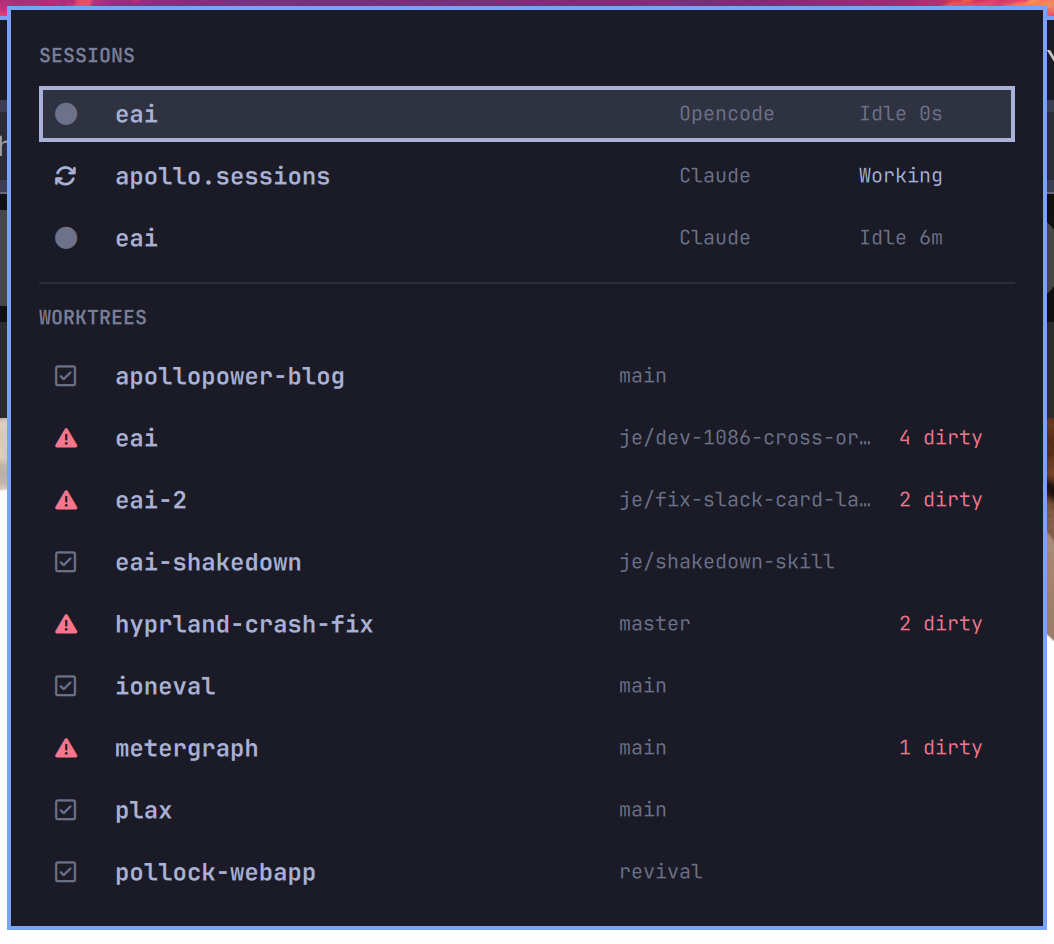
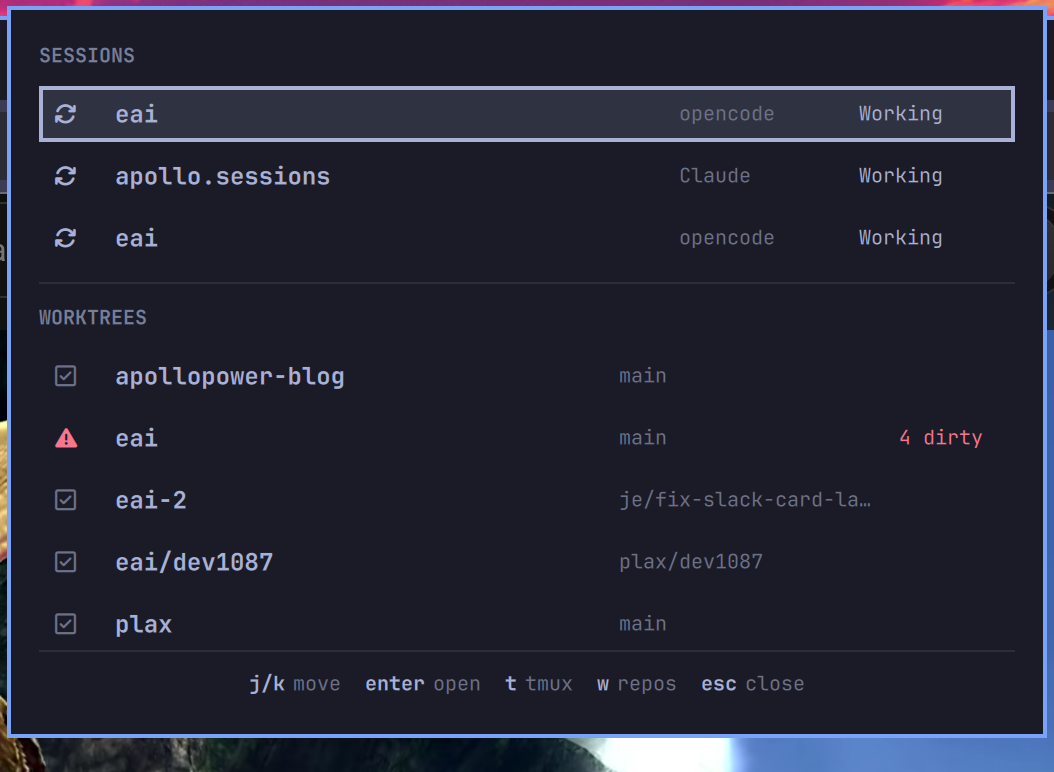
List real worktrees, add a w toggle and a key legend
The WORKTREES section was a claim the code did not keep. It globbed
$root/*/ and kept anything containing a .git, which means it listed
repositories one level down rather than worktrees: a worktree parked inside its
own repo was invisible, and a plain clone was listed as a "worktree" it never
was. On this machine that hid .plax/worktrees/dev1087 -- a live plax worktree,
one commit ahead of main, with no upstream, so its only copy was on disk and
the panel never mentioned it.

Worktrees now come from `git worktree list --porcelain` on every repository
found under worktreeRoots, unioned and deduped by resolved path. That also
fixes the inverse, since a plain clone reports itself as its own single
worktree and so appears exactly once. Prunable entries are skipped and detached
heads are labelled rather than left blank. Each record carries `parent` and
`main`, so the list groups under the repository a worktree belongs to instead
of sorting by name -- eai-2 and eai/dev1087 both belong to eai and only sat
next to it alphabetically by luck. Cost is one extra local git call per repo,
median poll 298ms -> 335ms, partly offset by dropping the separate rev-parse
for the branch.

`w` collapses the list to one row per repository and back. The filtering lives
in the panel rather than the poll script so it is instant, and assigning
showLinked breaks its binding to the setting, so the ten-second refresh cannot
silently undo the choice. The section header switches between WORKTREES and
[…]

diff --git a/Panel.qml b/Panel.qml
@@ -16,6 +16,27 @@ Panel {
   property var sessionsData: []
   property var worktreesData: []
 
+  // `w` collapses the worktree list to one row per repository and expands it
+  // again. Filtering here rather than in the poll script keeps it instant --
+  // no re-poll, no wait for the next tick. The setting only decides where the
+  // panel starts; assigning showLinked breaks the binding, so a later data
+  // refresh cannot silently undo the user's choice.
+  property bool linkedDefault: true
+  property bool showLinked: linkedDefault
+  readonly property var worktreeRows: {
+    if (showLinked) return worktreesData
+    var rows = []
+    for (var i = 0; i < worktreesData.length; i++)
+      if (worktreesData[i] && worktreesData[i].main === true) rows.push(worktreesData[i])
+    return rows
+  }
+
+  function toggleLinkedWorktrees() {
+    showLinked = !showLinked
+    clampSelected()
+    ensureVisible()
+  }
+
   readonly property color foreground: bar ? bar.foreground : Color.foreground
   readonly property color dim: Qt.darker(foreground, 1.55)
   readonly property color urgent: bar ? bar.urgent : Color.urgent
@@ -31,10 +52,23 @@ Panel {
   readonly property string terminal: String(setting("terminal", ""))
   readonly property color selectFill: Qt.rgba(accentColor.r, accentColor.g, accentColor.b, 0.15)
 
+  // Pinned key legend. The panel is keyboard-driven and `w` in particular has
+  // no other affordance, so the keys have to be stated somewhere. It sits
+  // outside the Flickable: a legend that scrolls away with a long worktree
+  // list would be worse than none.
+  readonly property var legendKeys: [
+    { key: "j/k", label: "move" },
+    { key: "enter", label: "open" },
+    { key: "t", label: "tmux" },
+    { key: "w", label: root.showLinked ? "repos" : "worktrees" },
+    { key: "esc", label: "close" }
+  ]
+  readonly property real legendHeight: Style.font.caption + Style.space(18)
+
   readonly property real panelWidth: Style.space(520)
   readonly property real rowHeight: Style.font.body + Style.space(16)
   readonly property real headerHeight: Style.space(28)
-  readonly property int totalItems: sessionsData.length + worktreesData.length
+  readonly property int totalItems: sessionsData.length + worktreeRows.length
   readonly property int sessionCount: sessionsData.length
 
   readonly property real computedContentHeight: {
@@ -45,11 +79,12 @@ Panel {
     } else {
       h += Style.space(36)
     }
-    if (worktreesData.length > 0) {
+    if (worktreeRows.length > 0) {
       h += Style.space(16)
       h += headerHeight + Style.space(8)
-      h += worktreesData.length * rowHeight + (worktreesData.length - 1) * Style.space(3)
+      h += worktreeRows.length * rowHeight + (worktreeRows.length - 1) * Style.space(3)
     }
+    h += legendHeight
     return h
   }
 
@@ -119,7 +154,7 @@ Panel {
     if (selectedIndex < sessionCount)
       focusSession(sessionsData[selectedIndex])
     else
-      openWorktree(worktreesData[selectedIndex - sessionCount])
+      openWorktree(worktreeRows[selectedIndex - sessionCount])
   }
 
   function open() {
@@ -213,7 +248,7 @@ Panel {
     if (selectedIndex < sessionCount)
       focusSession(sessionsData[selectedIndex])
     else
-      openWorktreeInTmux(worktreesData[selectedIndex - sessionCount])
+      openWorktreeInTmux(worktreeRows[selectedIndex - sessionCount])
   }
 
   function isSessionSelected(index) { return index === selectedIndex && index < sessionCount }
@@ -230,6 +265,16 @@ Panel {
   // stopped on a question it asked -- actually needs the user now, so it is the
   // only one that reads as urgent. "Idle" deliberately claims nothing about
   // whether the agent finished or is waiting: the signal cannot tell them apart.
+  // Capitalising the first letter turned "opencode" into "Opencode", which is
+  // not what the project calls itself. Names are spelled the way their owners
+  // spell them.
+  function agentLabel(agent) {
+    var name = String(agent || "")
+    if (name === "claude") return "Claude"
+    if (name === "opencode") return "opencode"
+    return name
+  }
+
   function stateIcon(state) {
     if (state === "blocked") return "\uf059"   // question mark: awaiting your answer
     if (state === "stuck")   return "\uf071"   // warning: loop died mid-flight
@@ -291,11 +336,15 @@ Panel {
       onActivateRequested: root.activateSelected()
       onTextKey: function(t) {
         if (t === "t") root.activateSelectedInTmux()
+        else if (t === "w") root.toggleLinkedWorktrees()
       }
 
       Flickable {
         id: panelFlick
-        anchors.fill: parent
+        anchors.left: parent.left
+        anchors.right: parent.right
+        anchors.top: parent.top
+        anchors.bottom: legend.top
         contentWidth: width
         contentHeight: Math.max(panelFlick.height, root.computedContentHeight)
         clip: true
@@ -379,7 +428,7 @@ Panel {
 
                   Text {
                     anchors.verticalCenter: parent.verticalCenter
-                    text: String(session.agent || "").charAt(0).toUpperCase() + String(session.agent || "").slice(1)
+                    text: root.agentLabel(session.agent)
                     color: root.dim
                     font.family: root.fontFamily
                     font.pixelSize: Style.font.caption
@@ -423,25 +472,26 @@ Panel {
           }
 
           PanelSeparator {
-            visible: root.worktreesData.length > 0
+            visible: root.worktreeRows.length > 0
             foreground: root.foreground
           }
 
           PanelSectionHeader {
-            text: "WORKTREES"
+            // Says which mode the list is in, since `w` is the only way to tell.
+            text: root.showLinked ? "WORKTREES" : "REPOSITORIES"
             foreground: root.foreground
             fontFamily: root.fontFamily
-            visible: root.worktreesData.length > 0
+            visible: root.worktreeRows.length > 0
           }
 
           Column {
             id: worktreesSection
-            visible: root.worktreesData.length > 0
+            visible: root.worktreeRows.length > 0
             width: parent.width
             spacing: Style.space(3)
 
             Repeater {
-              model: root.worktreesData
+              model: root.worktreeRows
 
               Item {
                 id: worktreeEntry
@@ -536,6 +586,50 @@ Panel {
                   }
                   onEntered: root.selectedIndex = index + root.sessionCount
                 }
+              }
+            }
+          }
+        }
+      }
+
+      Item {
+        id: legend
+        anchors.left: parent.left
+        anchors.right: parent.right
+        anchors.bottom: parent.bottom
+        height: root.legendHeight
+
+        PanelSeparator {
+          anchors.top: parent.top
+          width: parent.width
+          foreground: root.foreground
+        }
+
+        Row {
+          anchors.centerIn: parent
+          anchors.verticalCenterOffset: Style.space(3)
+          spacing: Style.space(12)
+
+          Repeater {
+            model: root.legendKeys
+
+            Row {
+              required property var modelData
+              spacing: Style.space(4)
+
+              Text {
+                text: modelData.key
+                color: root.foreground
+                font.family: root.fontFamily
+                font.pixelSize: Style.font.caption
+                font.bold: true
+              }
+
+              Text {
+                text: modelData.label
+                color: root.dim
+                font.family: root.fontFamily
+                font.pixelSize: Style.font.caption
               }
             }
           }

diff --git a/BarWidget.qml b/BarWidget.qml
@@ -11,6 +11,8 @@ BarWidget {
   property int refreshIntervalSec: Math.max(5, Number(setting("refreshIntervalSec", 10)))
   property int stuckAfterSec: Math.max(60, Number(setting("stuckAfterSec", 600)))
   readonly property string worktreeRoots: String(setting("worktreeRoots", "~/Work/repos"))
+  // Which mode the panel opens in. `w` flips it live; this only sets the start.
+  readonly property bool showLinkedWorktrees: setting("showLinkedWorktrees", true) !== false
 
   // Resolved against this file rather than a fixed plugin path, so the plugin
   // keeps working whatever its install directory is named.
@@ -74,6 +76,7 @@ BarWidget {
     if ("bar" in target) target.bar = root.bar
     if ("sessionsData" in target) target.sessionsData = root.sessions
     if ("worktreesData" in target) target.worktreesData = root.worktrees
+    if ("linkedDefault" in target) target.linkedDefault = root.showLinkedWorktrees
     if ("anchorItem" in target) target.anchorItem = button
     if ("hostWidget" in target) target.hostWidget = root
   }

diff --git a/README.md b/README.md
@@ -1,13 +1,14 @@
 # Agent Cockpit
 
-An Omarchy bar widget for people who run several coding agents at once. The bar
-shows how many sessions are live and how many are waiting on you; the panel
-tells you which ones, and jumps you straight to the right tmux pane.
+An Omarchy bar widget for people who run several coding agents at once. It
+tells you which ones are actually waiting on you, and jumps you straight to the
+right tmux pane.
 
 ![Agent Cockpit panel](preview.png)
 
-The bar badge reads `blocked/total` when something needs you, and just `total`
-otherwise.
+The bar carries a single `>_` icon that sits quietly at the same weight as your
+other status icons, and shifts to your theme's urgent colour when an agent is
+blocked. No counters, nothing appearing or disappearing.
 
 ## Install
 
@@ -22,25 +23,38 @@ omarchy plugin add https://github.com/apollopower/omarchy-agent-cockpit --enable
 | `j` / `k` | move the selection |
 | `Enter` | on a session, focus its exact tmux pane; on a worktree, open it in a terminal |
 | `t` | focus the tmux terminal, opening a new window for a worktree |
+| `w` | collapse the worktree list to one row per repository, and back |
 | `Tab` | switch to the neighbouring bar panel |
 | `Esc` | close |
 
 ## Configuration
 
-Set these under the widget's entry in `~/.config/omarchy/shell.json`:
+Settings go **inline on the widget's entry** in `~/.config/omarchy/shell.json`,
+alongside `id` — not nested under a `settings` key, which is silently ignored:
+
+```json
+{
+  "id": "apollo.agent-cockpit",
+  "worktreeRoots": "~/code:~/Work/repos",
+  "showLinkedWorktrees": false
+}
+```
+
+They take effect on save; `shell.json` hot-reloads and the running widget is
+patched in place, so no restart is needed (unlike editing the plugin's QML).
 
 | Setting | Default | Meaning |
 | --- | --- | --- |
 | `refreshIntervalSec` | `10` | how often to poll (minimum 5) |
 | `stuckAfterSec` | `600` | how long a mid-loop session may go without progress before it is called stuck (minimum 60) |
-| `worktreeRoots` | `~/Work/repos` | colon-separated directories whose immediate git repos are listed |
+| `worktreeRoots` | `~/Work/repos` | colon-separated directories to scan for git repositories |
+| `showLinkedWorktrees` | `true` | which mode the panel opens in. `w` flips it live; this only sets the starting state |
 | `terminal` | *(empty)* | terminal used to open a worktree outside tmux; empty means `$TERMINAL`, then the first of alacritty, foot, kitty, ghostty that is installed |
 
 ## What the states mean
 
-The bar shows a `>_` icon, always present like the other status icons. It stays
-the same colour as its neighbours until an agent is **blocked**, and then shifts
-to your theme's urgent colour. Nothing appears, nothing counts up.
+Every session is in exactly one of four states, and they are not equally
+interesting:
 
 | State | Icon | What it actually means |
 | --- | --- | --- |
@@ -55,7 +69,7 @@ on you.
 
 ### Where the signal comes from
 
-**Opencode** records a question as a `question` tool part still in the
+**opencode** records a question as a `question` tool part still in the
 `running` state, and every assistant message records how its turn ended
 (`tool-calls` mid-loop, `stop` / `unknown` / `length` / absent for a finished
 turn — absent meaning aborted). Both are read from its SQLite store, scoped to
@@ -79,12 +93,27 @@ tail is read, since transcripts reach megabytes.
   state is keyed by working directory. Two *different* agents in the same
   directory are tracked separately.
 
+### Which worktrees are listed
+
+Worktrees come from `git worktree list` on every repository found under
+`worktreeRoots`, not from the directory layout — so a worktree parked inside
+its own repo (`.plax/worktrees/<name>`, a common convention for agent tooling)
+is listed like any other. They are grouped under the repository they belong to,
+and nested ones are labelled `<repo>/<worktree>` so it is obvious what they are
+part of. A plain clone reports itself as its own single worktree, so it appears
+exactly once.
+
+Press `w` to collapse the list to one row per repository — the header changes to
+REPOSITORIES so the mode is never ambiguous. Note this hides top-level linked
+worktrees too, not just nested ones: a sibling directory created by
+`git worktree add` is a worktree, not a separate repo.
+
 ## Requirements
 
 Omarchy's Quickshell bar and Hyprland. Beyond that: `jq`, `python3`, `git` and
 `hyprctl`, all present on a stock Omarchy install. `tmux` is needed for pane
-focusing and the `t` key. `sqlite3` is needed for Opencode status — without it
-Opencode sessions fall back to the Claude transcript heuristic.
+focusing and the `t` key. `sqlite3` is needed for opencode status — without it
+opencode sessions fall back to the Claude transcript heuristic.
 
 Nothing is written outside the plugin directory, so removal is just
 `omarchy plugin remove apollo.agent-cockpit`.
